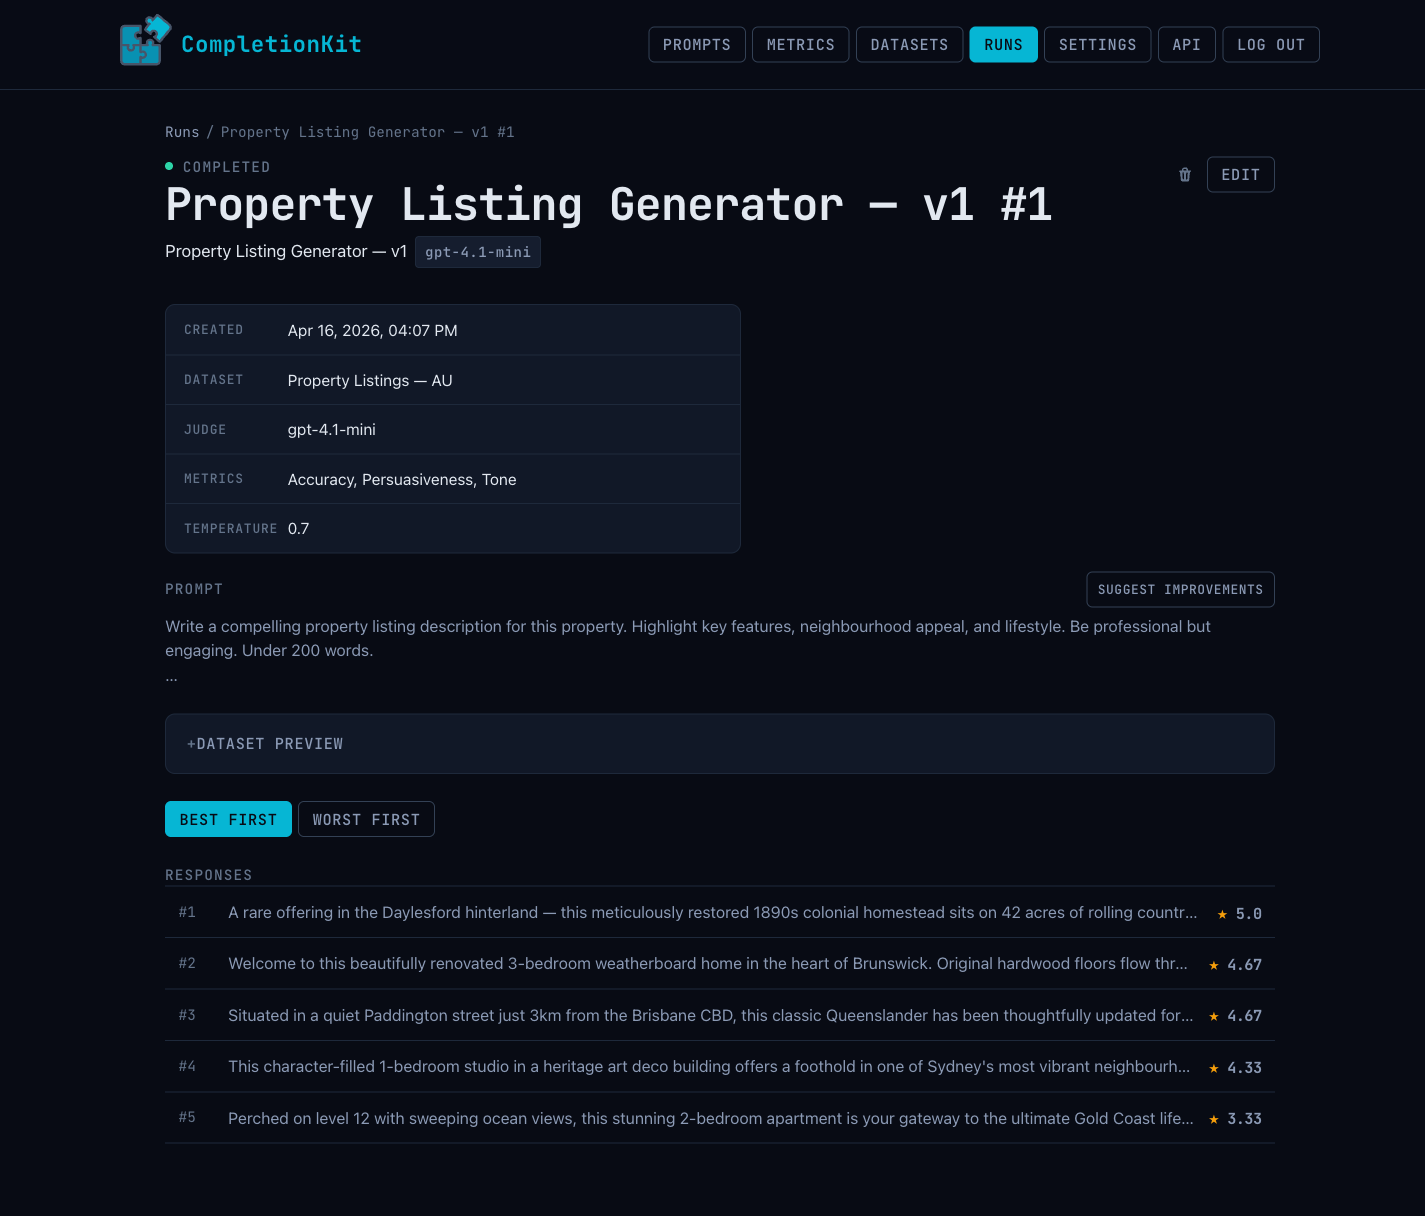
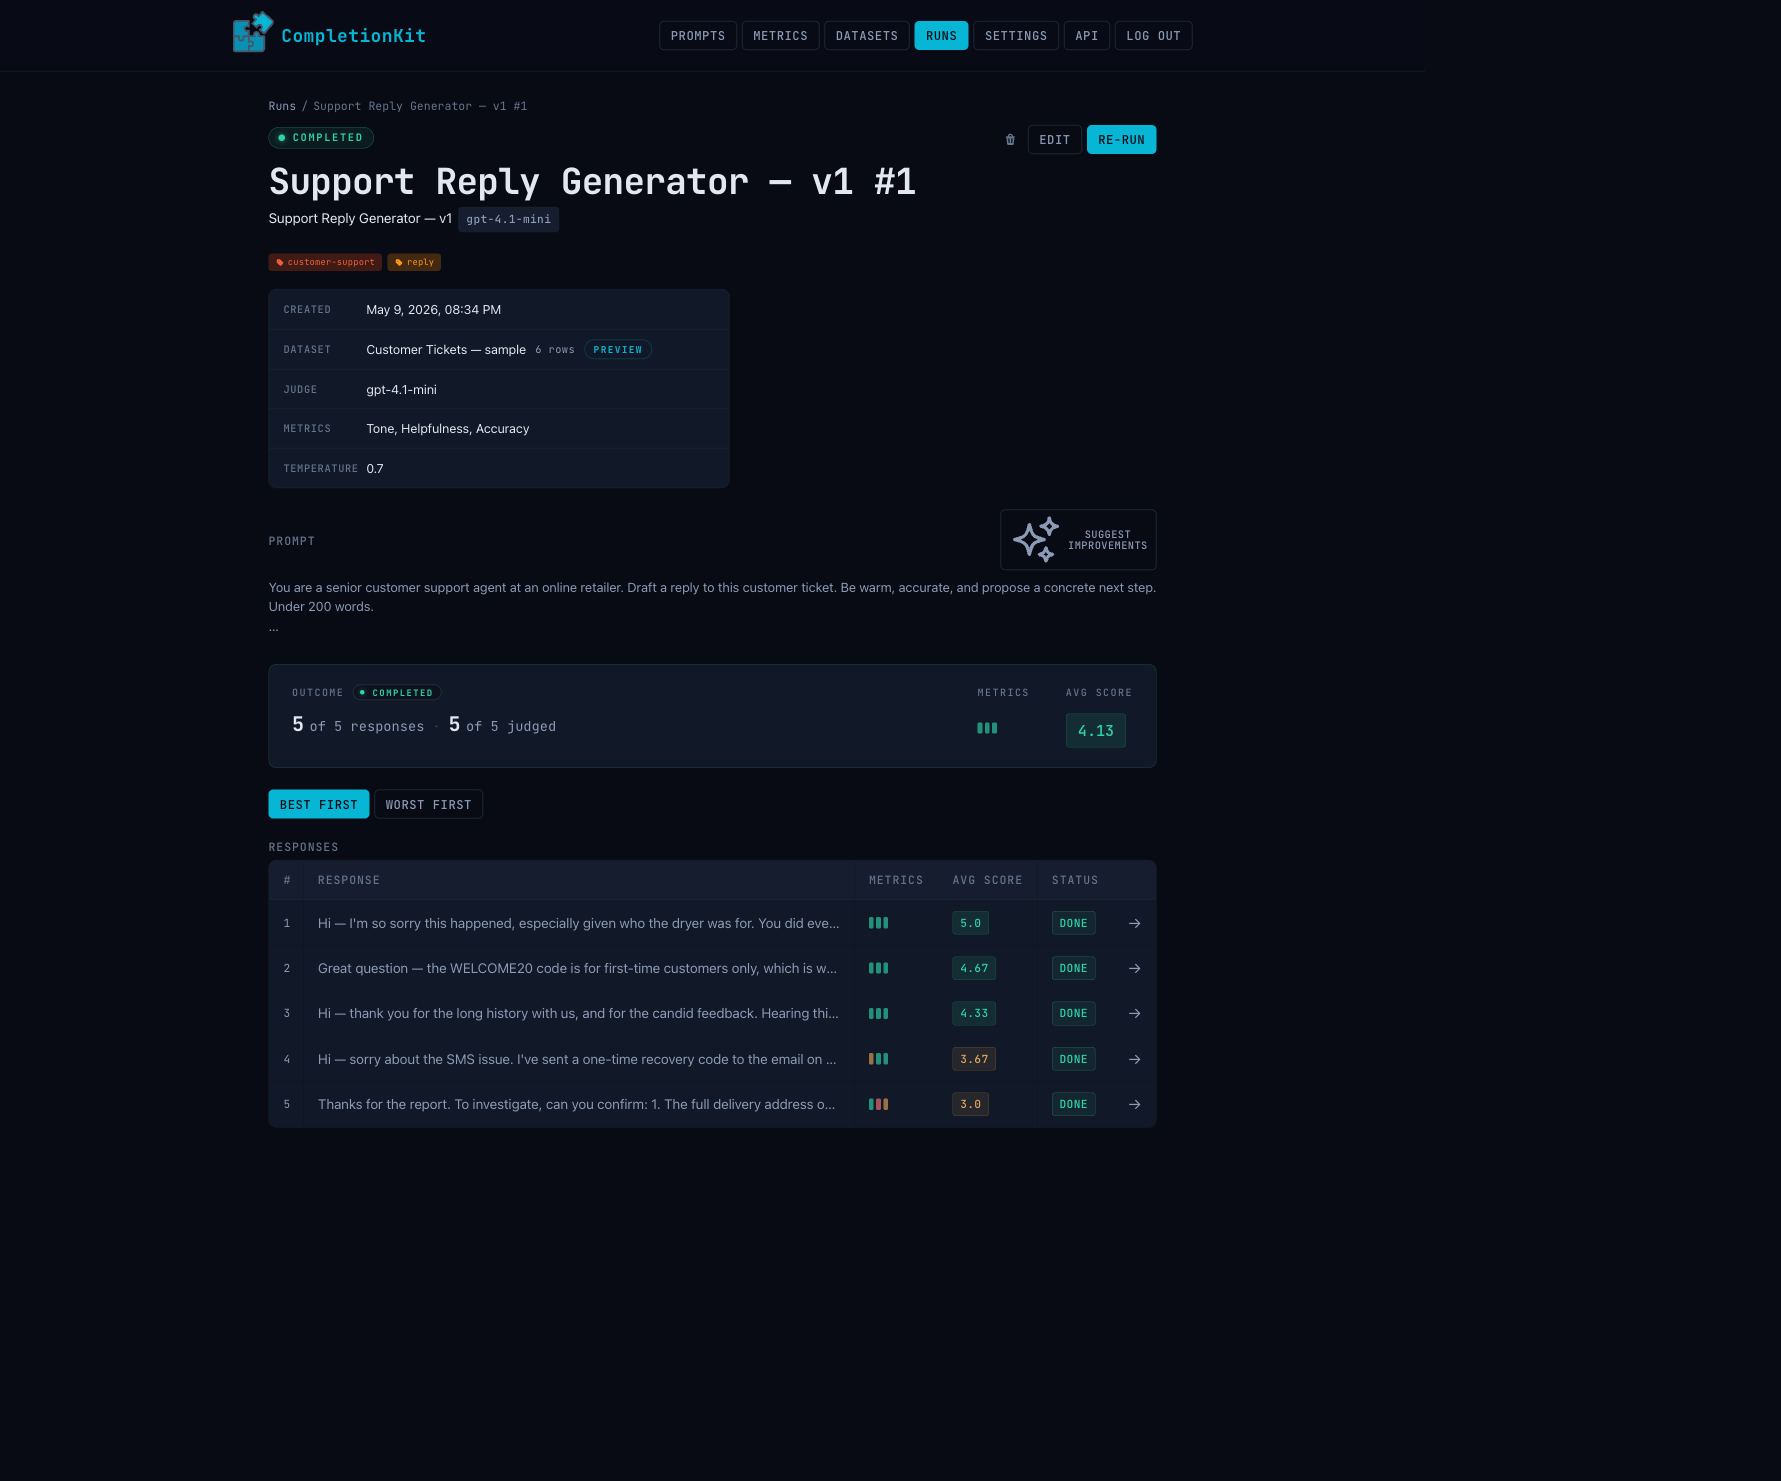
README: single screenshot + ✨ on Suggest improvements
Drop the prompts/prompt-detail screenshots, refresh test-run.png against the current UI. Add a sparkles heroicon to the Suggest improvements buttons on runs/show and prompts/show; bake icon-text gap into .ck-button.

diff --git a/app/assets/stylesheets/completion_kit/application.css b/app/assets/stylesheets/completion_kit/application.css
@@ -482,6 +482,7 @@ tr:hover .ck-chip--publish {
   display: inline-flex;
   align-items: center;
   justify-content: center;
+  gap: 0.4rem;
   min-height: 2rem;
   padding: 0.4rem 0.75rem;
   border: 1px solid transparent;

diff --git a/README.md b/README.md
@@ -18,10 +18,6 @@ It's the difference between "this prompt seems to work" and "this prompt scores 
 
 > **CompletionKit Cloud** — hosted, managed CompletionKit with zero setup. Same engine, run for you. See plans at [completionkit.com/pricing](https://completionkit.com/pricing).
 
-![Prompts index](https://raw.githubusercontent.com/homemade-software-inc/completion-kit/main/docs/screenshots/prompts.png)
-
-![Prompt detail with metrics and rubrics](https://raw.githubusercontent.com/homemade-software-inc/completion-kit/main/docs/screenshots/prompt-detail.png)
-
 ![Test run with scored results](https://raw.githubusercontent.com/homemade-software-inc/completion-kit/main/docs/screenshots/test-run.png)
 
 ## Quick Start
